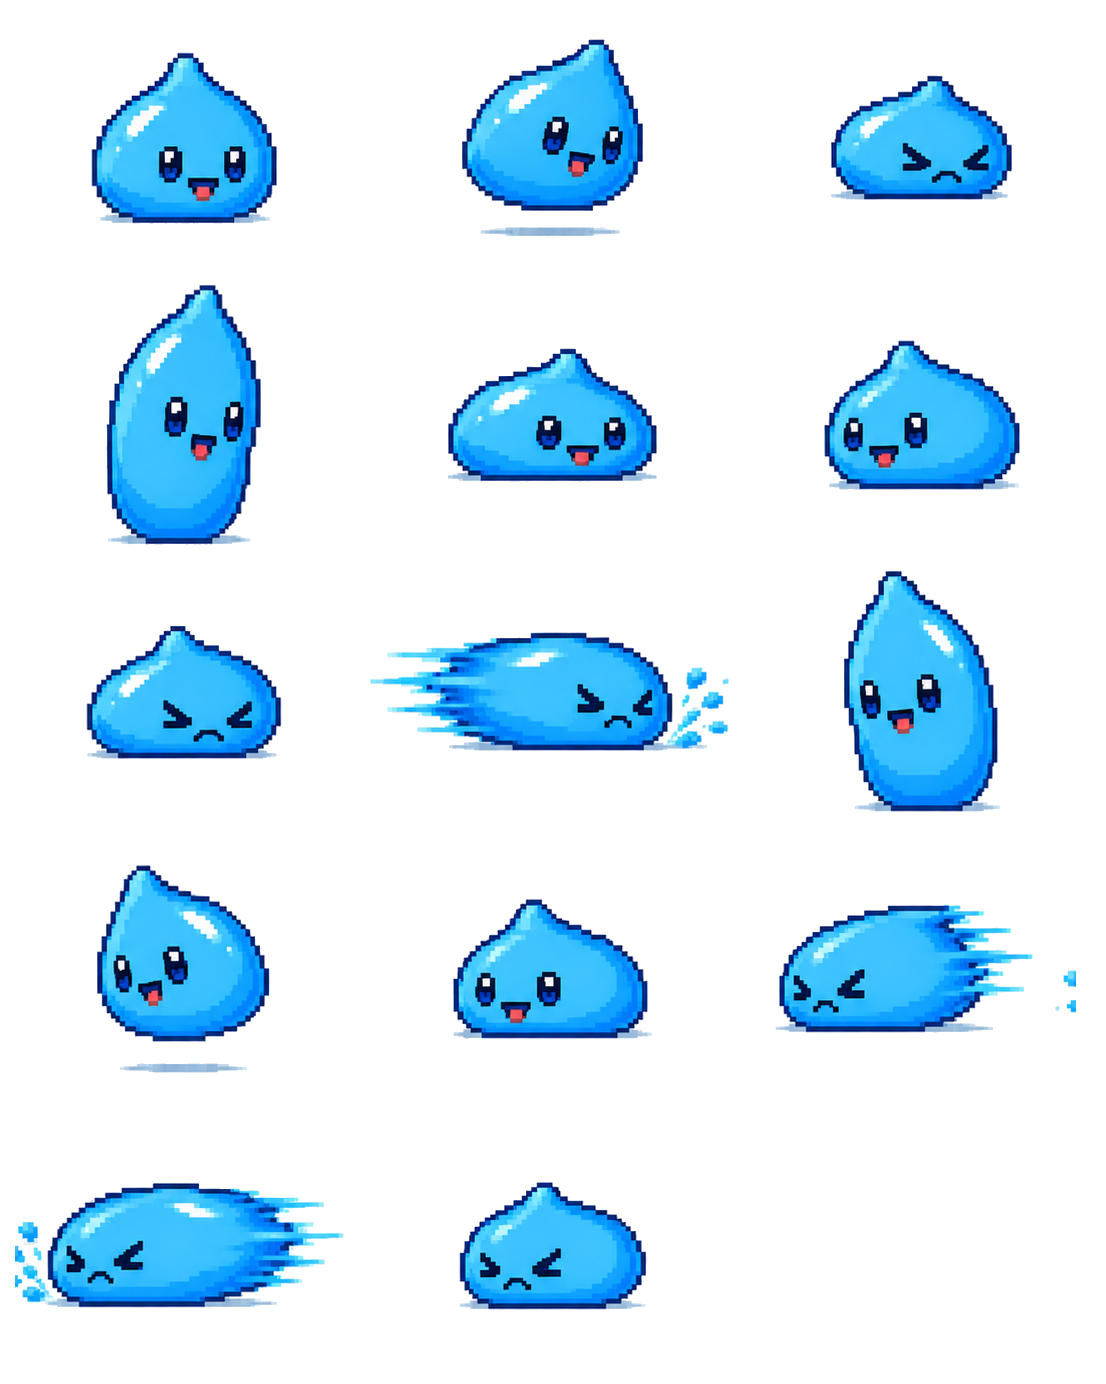
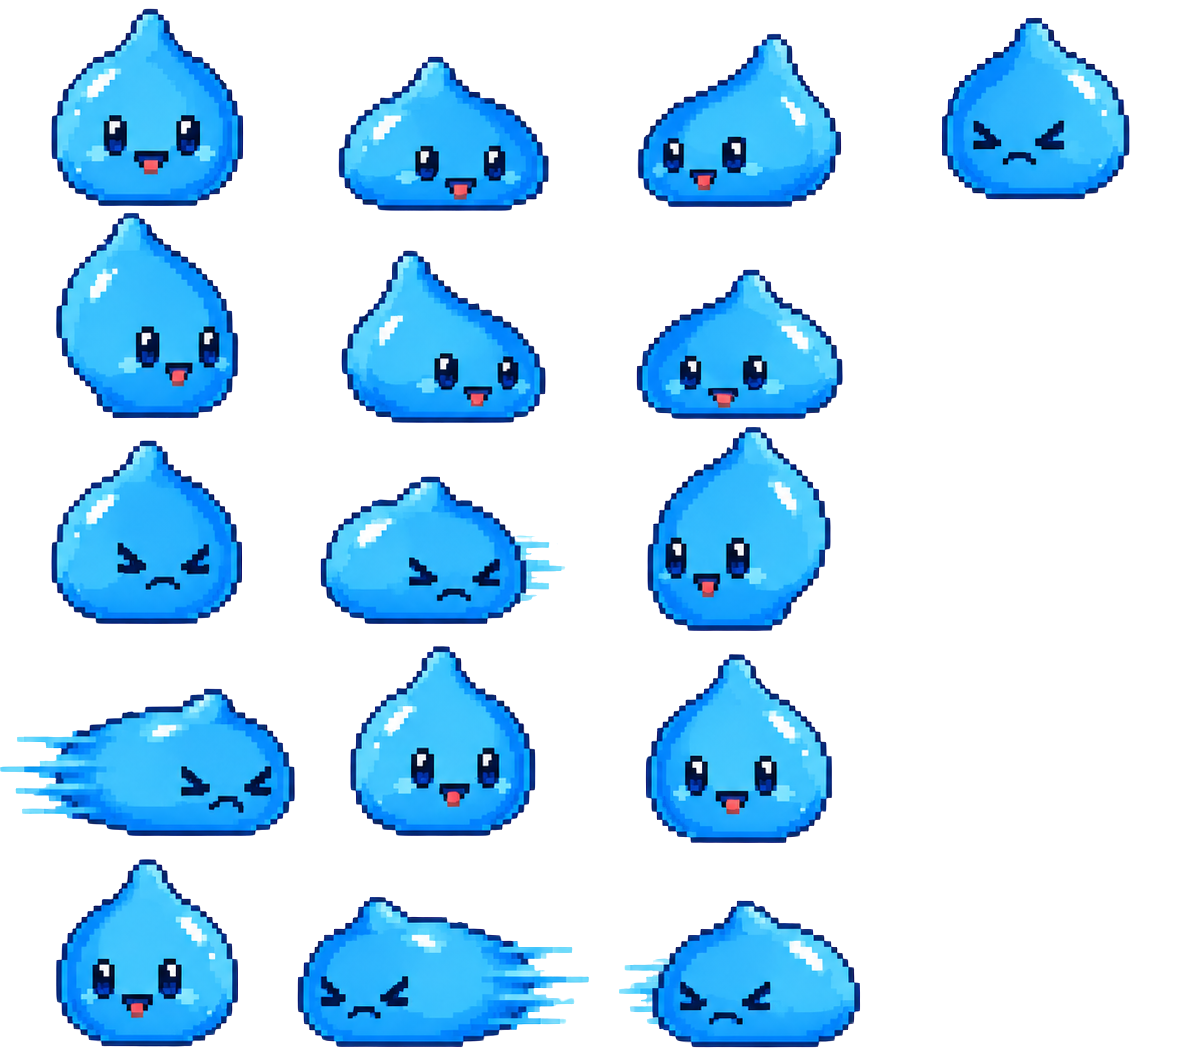
feat: replace blue slime sprite sheet with complete 16-frame version
- 새 스프라이트 시트 교체 (295x211 프레임, 16프레임 완전)
- 이전 시트는 attack 애니에 누락 프레임 있었음
- 모든 애니메이션이 4프레임으로 통일: rm/ra/lm/la
- BLUE_BASE_SCALE 64/295로 업데이트

diff --git a/index.html b/index.html
@@ -1969,30 +1969,32 @@ class AudioManager {
 const Audio = new AudioManager();
 
 // ── 파란 슬라임 스프라이트 시트 프레임 데이터 ──────────────────────
-// 형식: { name, x, y, w, h }  (blue-slime.png 기준)
+// 형식: { name, x, y, w, h }  (blue-slime.png 기준, 295×211 프레임)
 const BLUE_SLIME_FRAMES = [
   // 01 오른쪽 이동 (right move) — 4프레임
-  { name:'rm1', x:0,   y:0,   w:368, h:276 },
-  { name:'rm2', x:0,   y:277, w:368, h:276 },
-  { name:'rm3', x:369, y:0,   w:368, h:276 },
-  { name:'rm4', x:369, y:277, w:368, h:276 },
-  // 02 오른쪽 공격 (right attack) — 3프레임 (02_02 누락)
-  { name:'ra1', x:0,   y:554, w:368, h:276 },
-  { name:'ra3', x:369, y:554, w:368, h:276 },
-  { name:'ra4', x:738, y:0,   w:368, h:276 },
+  { name:'rm1', x:0,   y:0,   w:295, h:211 },
+  { name:'rm2', x:0,   y:212, w:295, h:211 },
+  { name:'rm3', x:296, y:0,   w:295, h:211 },
+  { name:'rm4', x:296, y:212, w:295, h:211 },
+  // 02 오른쪽 공격 (right attack) — 4프레임
+  { name:'ra1', x:0,   y:424, w:295, h:211 },
+  { name:'ra2', x:296, y:424, w:295, h:211 },
+  { name:'ra3', x:0,   y:636, w:295, h:211 },
+  { name:'ra4', x:296, y:636, w:295, h:211 },
   // 03 왼쪽 이동 (left move) — 4프레임
-  { name:'lm1', x:738, y:277, w:368, h:276 },
-  { name:'lm2', x:738, y:554, w:368, h:276 },
-  { name:'lm3', x:0,   y:831, w:368, h:276 },
-  { name:'lm4', x:369, y:831, w:368, h:276 },
-  // 04 왼쪽 공격 (left attack) — 3프레임 (04_01 누락)
-  { name:'la2', x:738, y:831, w:368, h:276 },
-  { name:'la3', x:0,   y:1108, w:368, h:276 },
-  { name:'la4', x:369, y:1108, w:368, h:276 },
+  { name:'lm1', x:592, y:0,   w:295, h:211 },
+  { name:'lm2', x:592, y:212, w:295, h:211 },
+  { name:'lm3', x:592, y:424, w:295, h:211 },
+  { name:'lm4', x:592, y:636, w:295, h:211 },
+  // 04 왼쪽 공격 (left attack) — 4프레임
+  { name:'la1', x:0,   y:848, w:295, h:211 },
+  { name:'la2', x:296, y:848, w:295, h:211 },
+  { name:'la3', x:592, y:848, w:295, h:211 },
+  { name:'la4', x:888, y:0,   w:295, h:211 },
 ];
 
-// 368px 원본 프레임을 게임 내 ~64 world px 크기로 보이게 하는 기준 배율
-const BLUE_BASE_SCALE = 64 / 368;
+// 295px 원본 프레임을 게임 내 ~64 world px 크기로 보이게 하는 기준 배율
+const BLUE_BASE_SCALE = 64 / 295;
 
 class ArenaScene extends Phaser.Scene {
   constructor() {
@@ -2013,10 +2015,10 @@ class ArenaScene extends Phaser.Scene {
 
     // ── 파란 슬라임 애니메이션 정의 ──
     const K = 'slime_blue';
-    this.anims.create({ key:'blue_rm', frames: this.anims.generateFrameNames(K, {frames:['rm1','rm2','rm3','rm4']}), frameRate:8, repeat:-1 });
-    this.anims.create({ key:'blue_ra', frames: this.anims.generateFrameNames(K, {frames:['ra1','ra3','ra4']}),       frameRate:10, repeat:0 });
-    this.anims.create({ key:'blue_lm', frames: this.anims.generateFrameNames(K, {frames:['lm1','lm2','lm3','lm4']}), frameRate:8, repeat:-1 });
-    this.anims.create({ key:'blue_la', frames: this.anims.generateFrameNames(K, {frames:['la2','la3','la4']}),       frameRate:10, repeat:0 });
+    this.anims.create({ key:'blue_rm', frames: this.anims.generateFrameNames(K, {frames:['rm1','rm2','rm3','rm4']}), frameRate:8,  repeat:-1 });
+    this.anims.create({ key:'blue_ra', frames: this.anims.generateFrameNames(K, {frames:['ra1','ra2','ra3','ra4']}), frameRate:10, repeat:0  });
+    this.anims.create({ key:'blue_lm', frames: this.anims.generateFrameNames(K, {frames:['lm1','lm2','lm3','lm4']}), frameRate:8,  repeat:-1 });
+    this.anims.create({ key:'blue_la', frames: this.anims.generateFrameNames(K, {frames:['la1','la2','la3','la4']}), frameRate:10, repeat:0  });
 
     this.terrainGrid = this.generateTerrain();
     this.drawTerrain();